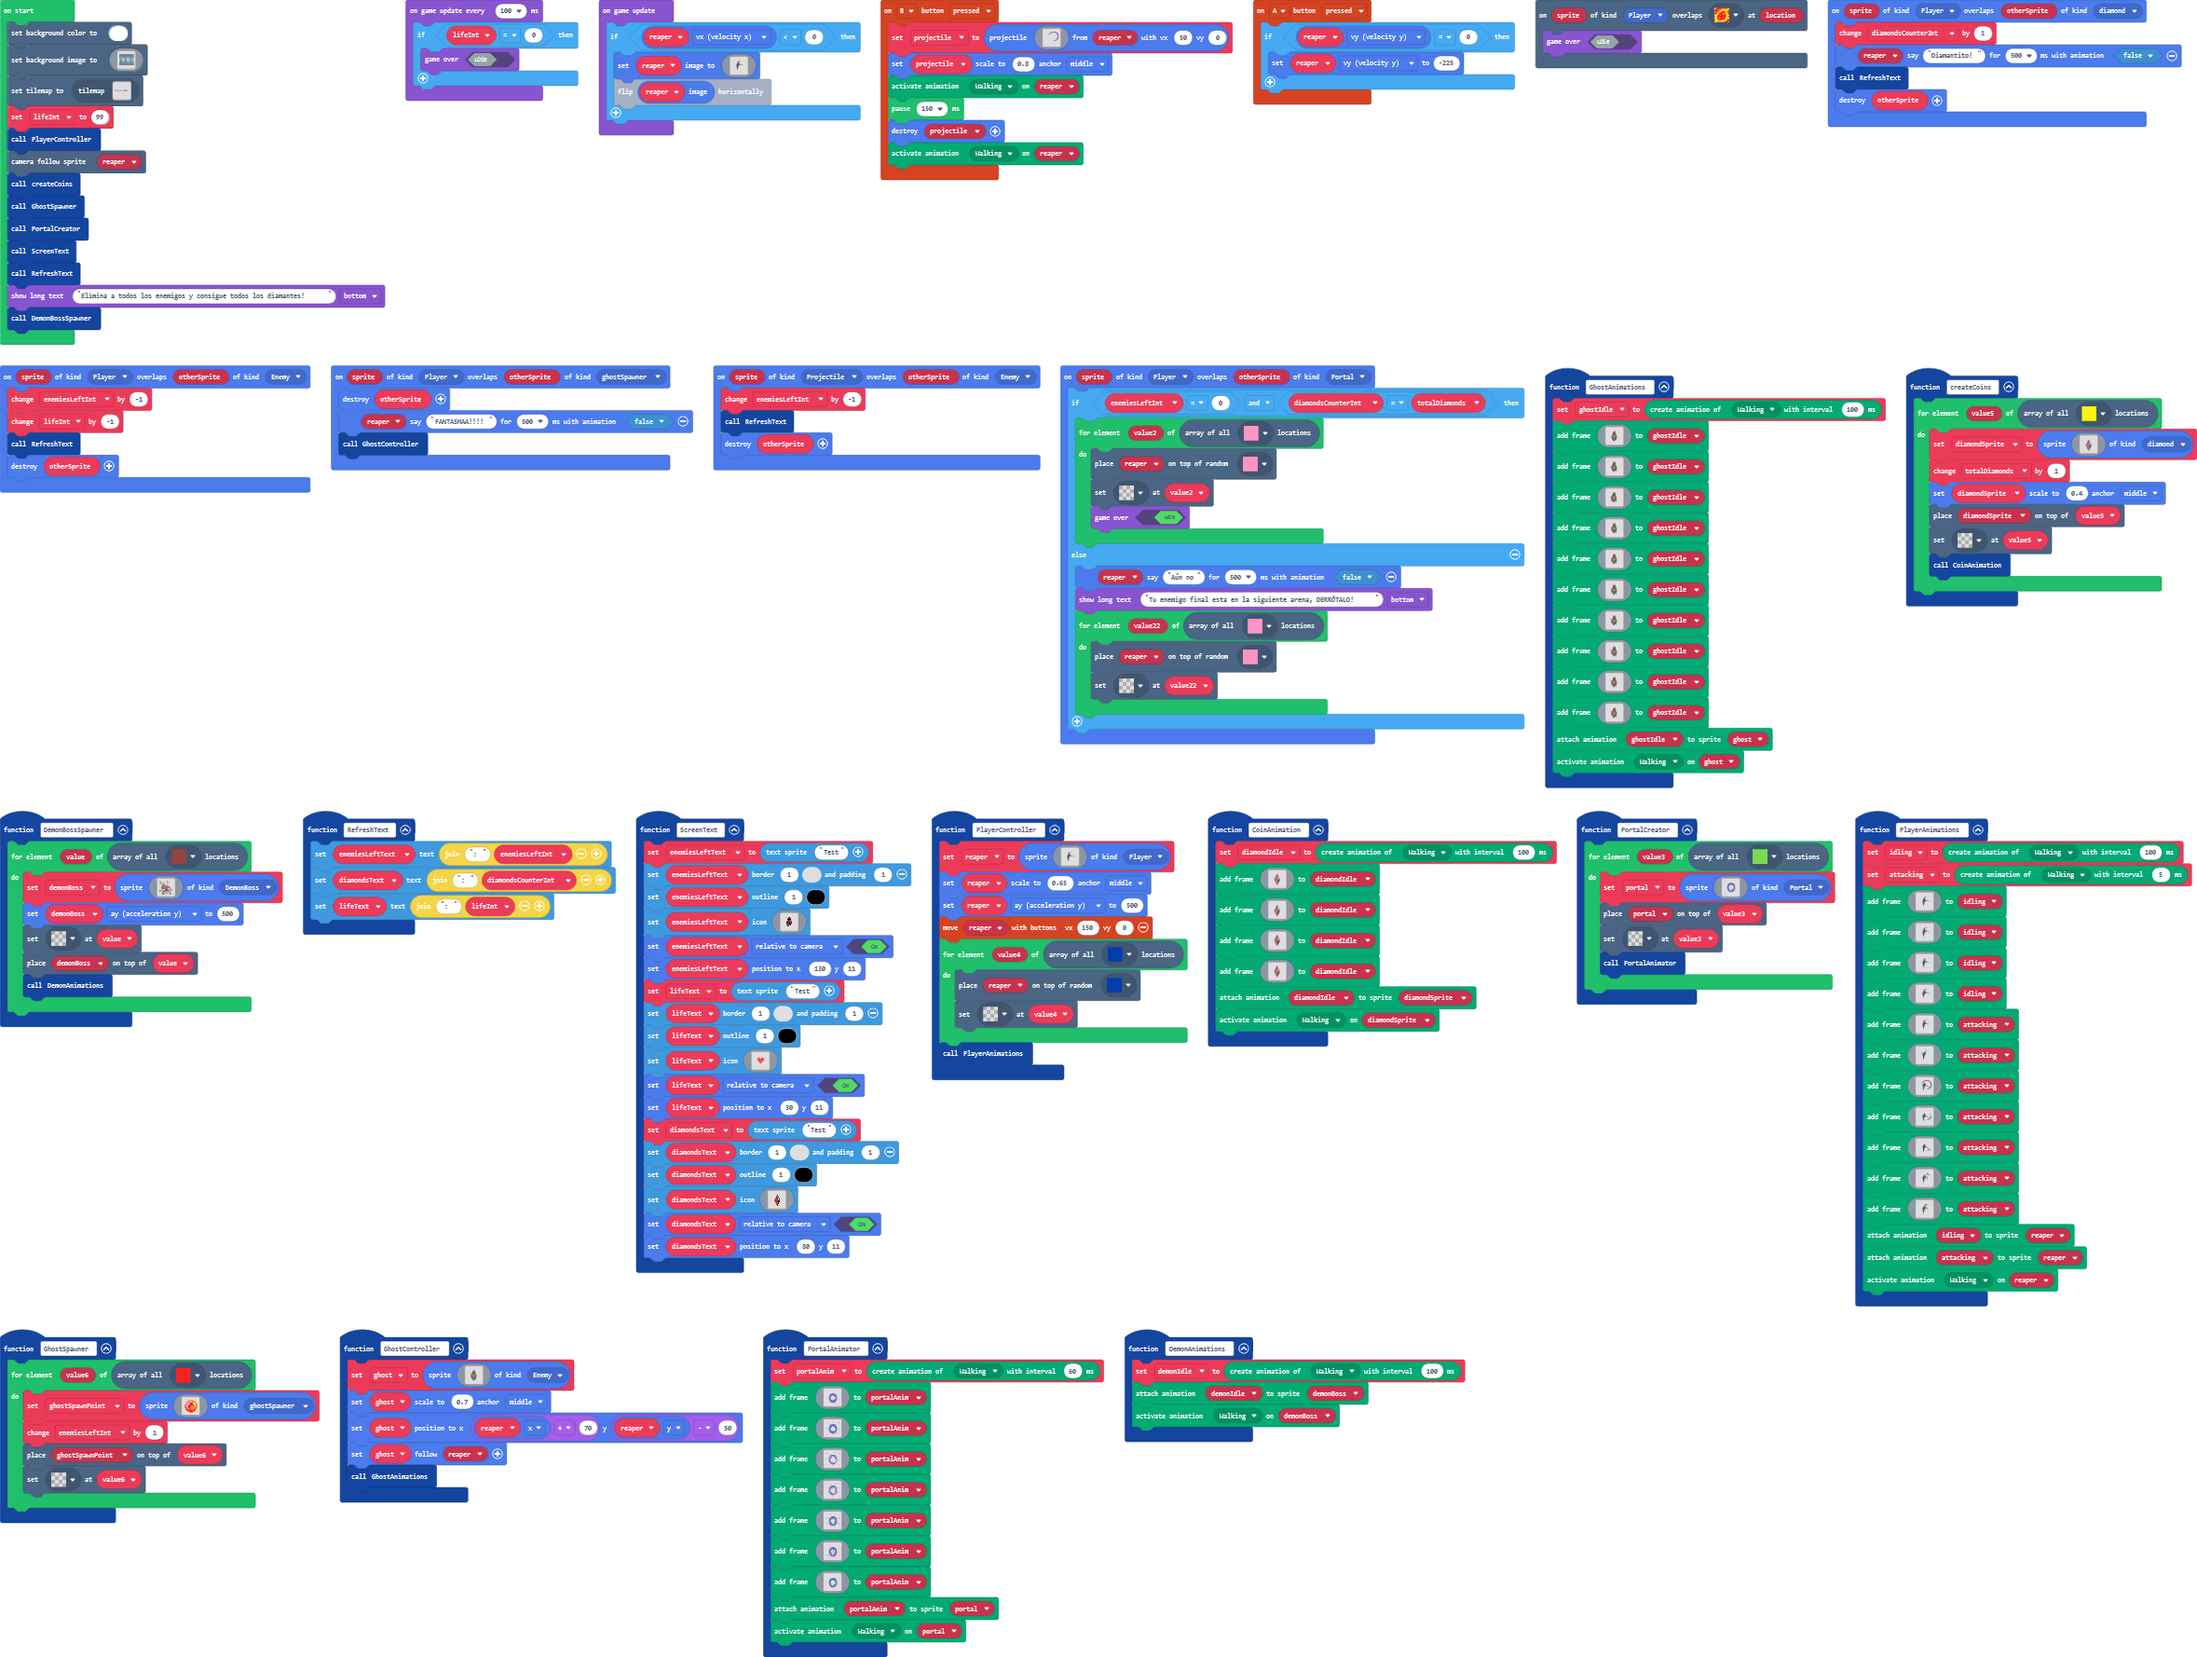
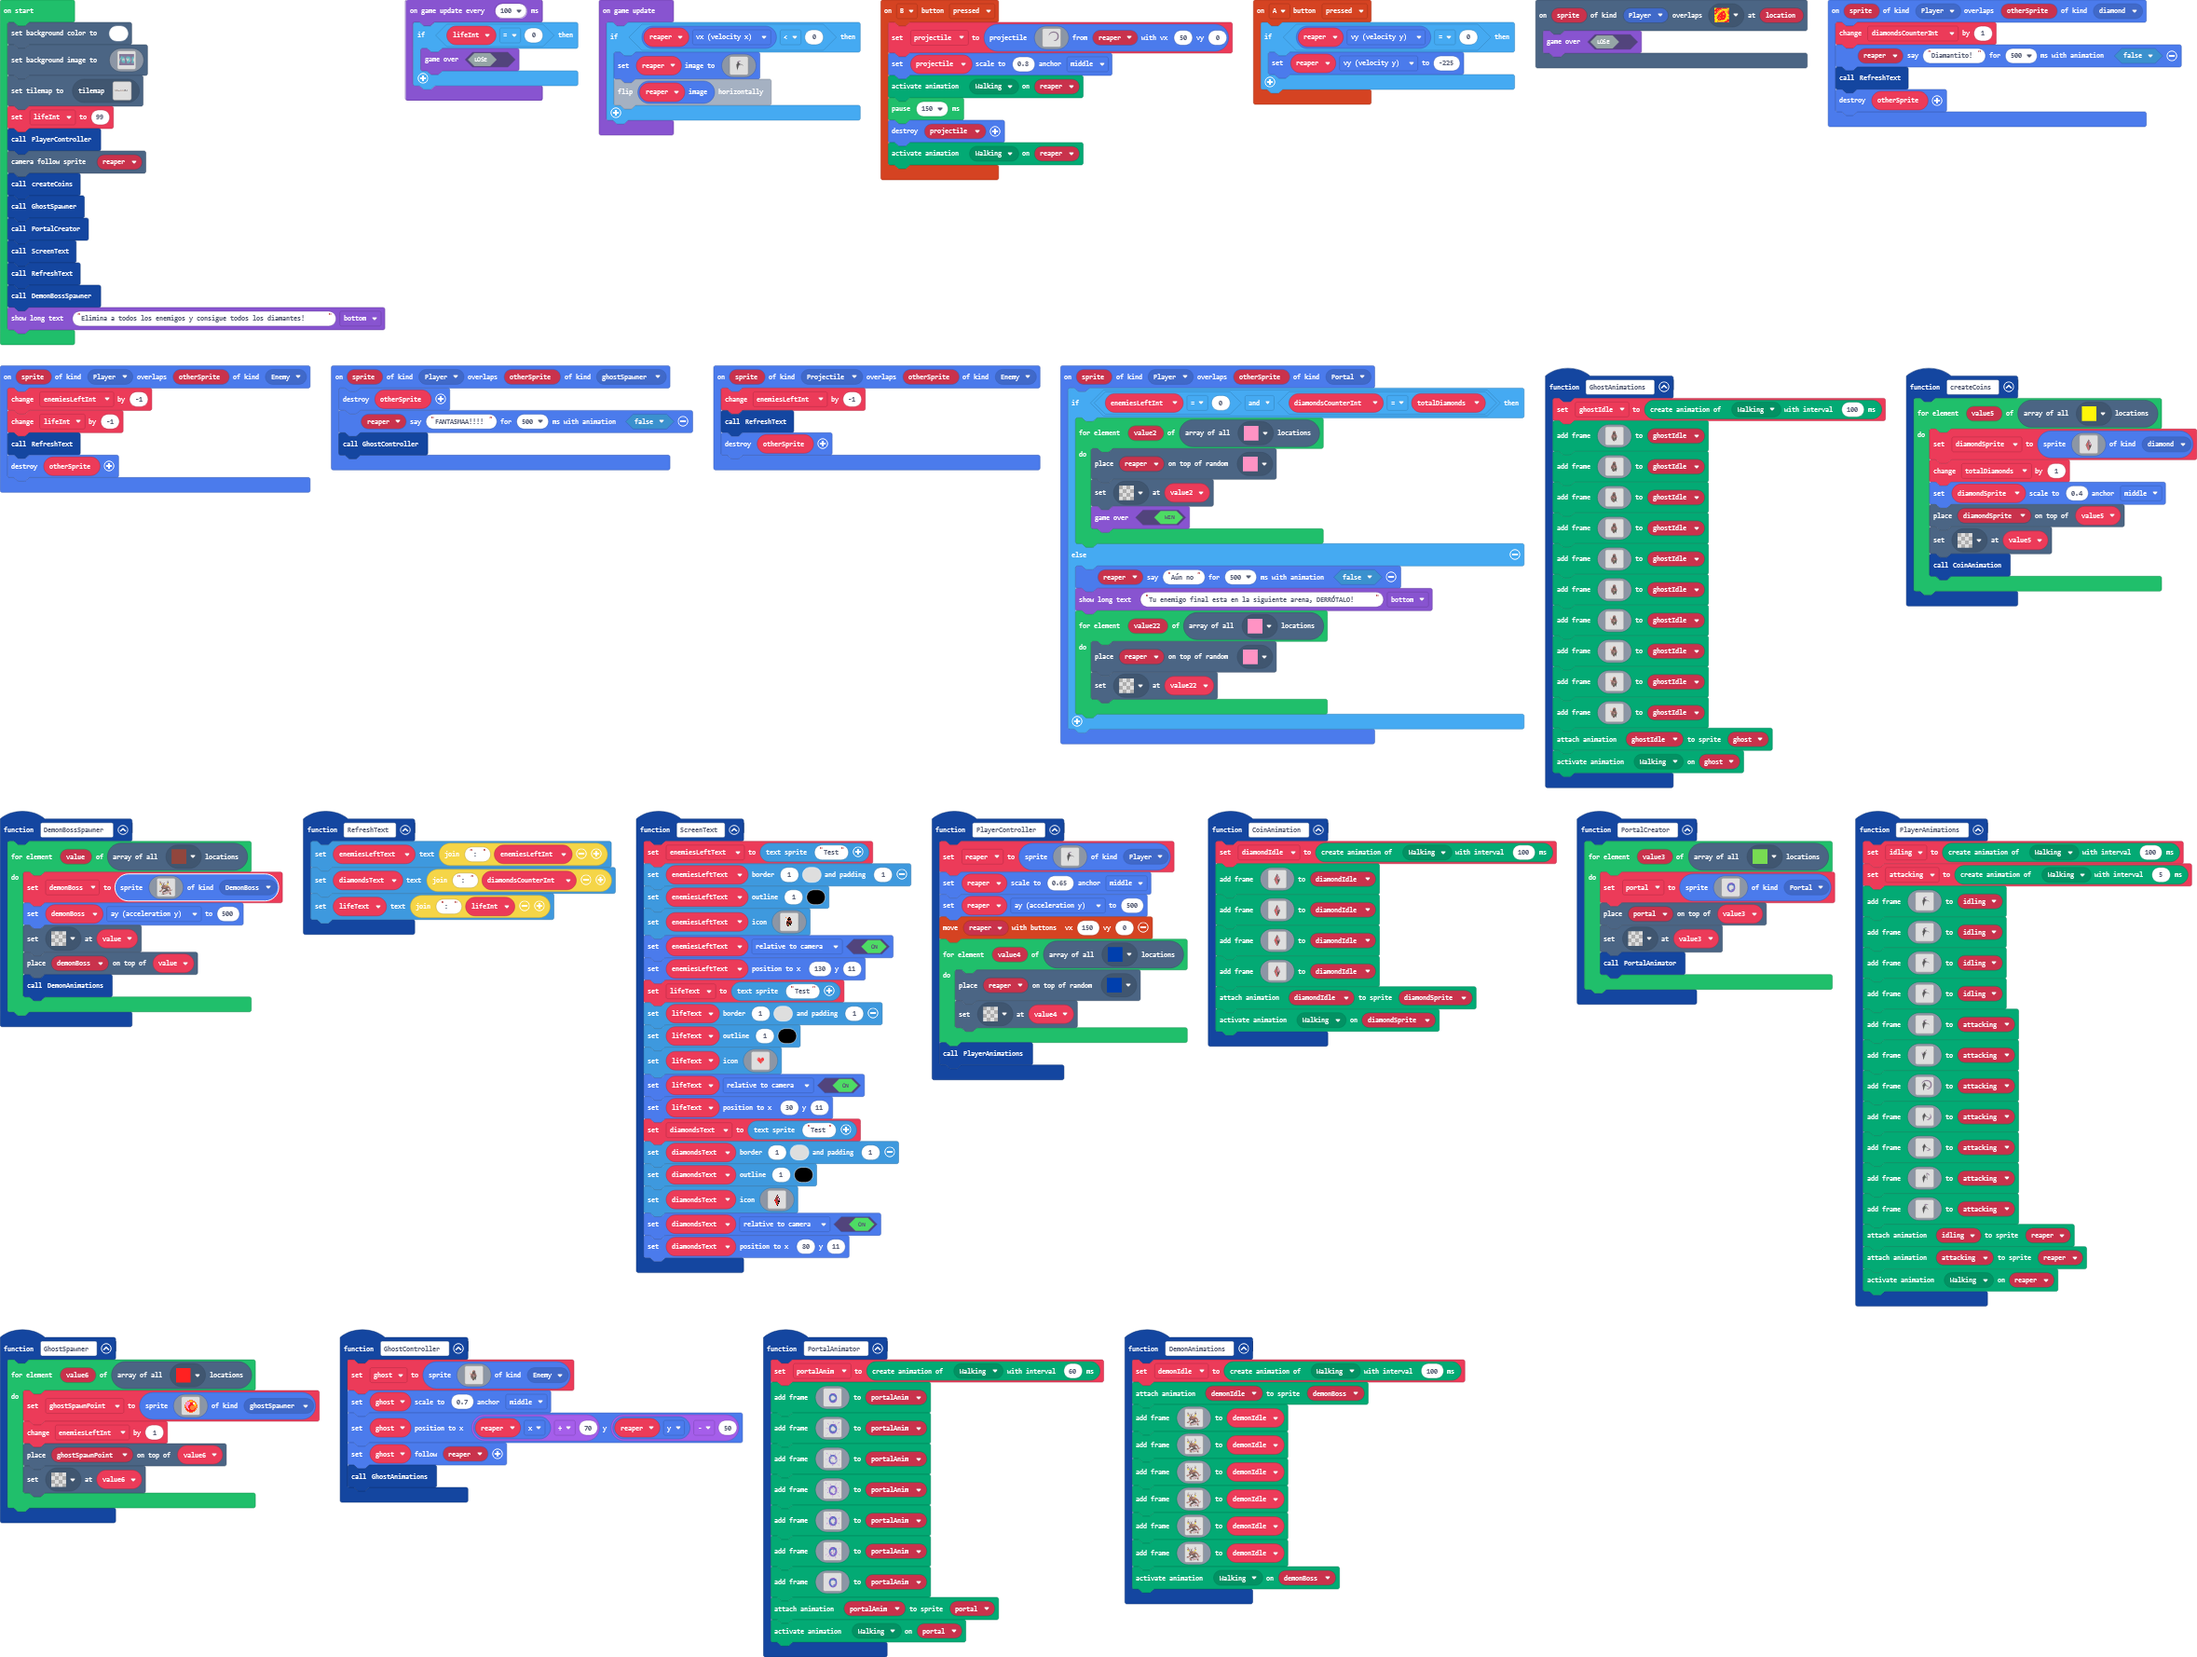
Demon Idle Anim

Changed region(s): [[0.4953, 0.8352, 0.6192, 0.9899], [0.0, 0.1547, 0.1858, 0.2165]]

diff --git a/tilemap.g.ts b/tilemap.g.ts
@@ -75,6 +75,25 @@ namespace myTiles {
 ............................2...........2......................2.........................................2..2...2...............................................................
 ............................2...........2......................2.........................................2..2...2...............................................................
 `, [myTiles.transparency16,sprites.dungeon.hazardLava0,sprites.dungeon.hazardLava1,myTiles.tile3,myTiles.tile4,myTiles.tile5,myTiles.tile6,myTiles.tile7,myTiles.tile9,myTiles.tile8,myTiles.tile10,myTiles.tile12,myTiles.tile1,myTiles.tile2,myTiles.tile13,myTiles.tile14,myTiles.tile15,myTiles.tile16], TileScale.Sixteen);
+            case "level1":
+            case "level1":return tiles.createTilemap(hex`1000100000000000000000000000000000000000000000000000000000000000000000000000000000000000000000000000000000000000000000000000000000000000000000000000000000000000000000000000000000000000000000000000000000000000000000000000000000000000000000000000000000000000000000000000000000000000000000000000000000000000000000000000000000000000000000000000000000000000000000000000000000000000000000000000000000000000000000000000000000000000000000000000000000000000000000000000000000000000000000000000000000000000000000000000000000000000`, img`
+. . . . . . . . . . . . . . . . 
+. . . . . . . . . . . . . . . . 
+. . . . . . . . . . . . . . . . 
+. . . . . . . . . . . . . . . . 
+. . . . . . . . . . . . . . . . 
+. . . . . . . . . . . . . . . . 
+. . . . . . . . . . . . . . . . 
+. . . . . . . . . . . . . . . . 
+. . . . . . . . . . . . . . . . 
+. . . . . . . . . . . . . . . . 
+. . . . . . . . . . . . . . . . 
+. . . . . . . . . . . . . . . . 
+. . . . . . . . . . . . . . . . 
+. . . . . . . . . . . . . . . . 
+. . . . . . . . . . . . . . . . 
+. . . . . . . . . . . . . . . . 
+`, [myTiles.transparency16], TileScale.Sixteen);
         }
         return null;
     })

diff --git a/main.ts b/main.ts
@@ -13,6 +13,12 @@ namespace SpriteKind {
 function DemonAnimations () {
     demonIdle = animation.createAnimation(ActionKind.Idle, 100)
     animation.attachAnimation(demonBoss, demonIdle)
+    demonIdle.addAnimationFrame(assets.image`DemonIdle1`)
+    demonIdle.addAnimationFrame(assets.image`DemonIdle2`)
+    demonIdle.addAnimationFrame(assets.image`DemonIdle3`)
+    demonIdle.addAnimationFrame(assets.image`DemonIdle4`)
+    demonIdle.addAnimationFrame(assets.image`DemonIdle5`)
+    demonIdle.addAnimationFrame(assets.image`DemonIdle6`)
     animation.setAction(demonBoss, ActionKind.Idle)
 }
 controller.B.onEvent(ControllerButtonEvent.Pressed, function () {
@@ -25,7 +31,7 @@ controller.B.onEvent(ControllerButtonEvent.Pressed, function () {
 })
 function DemonBossSpawner () {
     for (let value of tiles.getTilesByType(assets.tile`myTile7`)) {
-        demonBoss = sprites.create(assets.image`DemonIdle6`, SpriteKind.DemonBoss)
+        demonBoss = sprites.create(assets.image`DemonIdle1`, SpriteKind.DemonBoss)
         demonBoss.ay = 500
         tiles.setTileAt(value, assets.tile`transparency16`)
         tiles.placeOnTile(demonBoss, value)
@@ -232,8 +238,8 @@ GhostSpawner()
 PortalCreator()
 ScreenText()
 RefreshText()
-game.showLongText("Elimina a todos los enemigos y consigue todos los diamantes!", DialogLayout.Bottom)
 DemonBossSpawner()
+game.showLongText("Elimina a todos los enemigos y consigue todos los diamantes!", DialogLayout.Bottom)
 game.onUpdate(function () {
     if (reaper.vx < 0) {
         reaper.setImage(assets.image`ReaperIdle1`)
